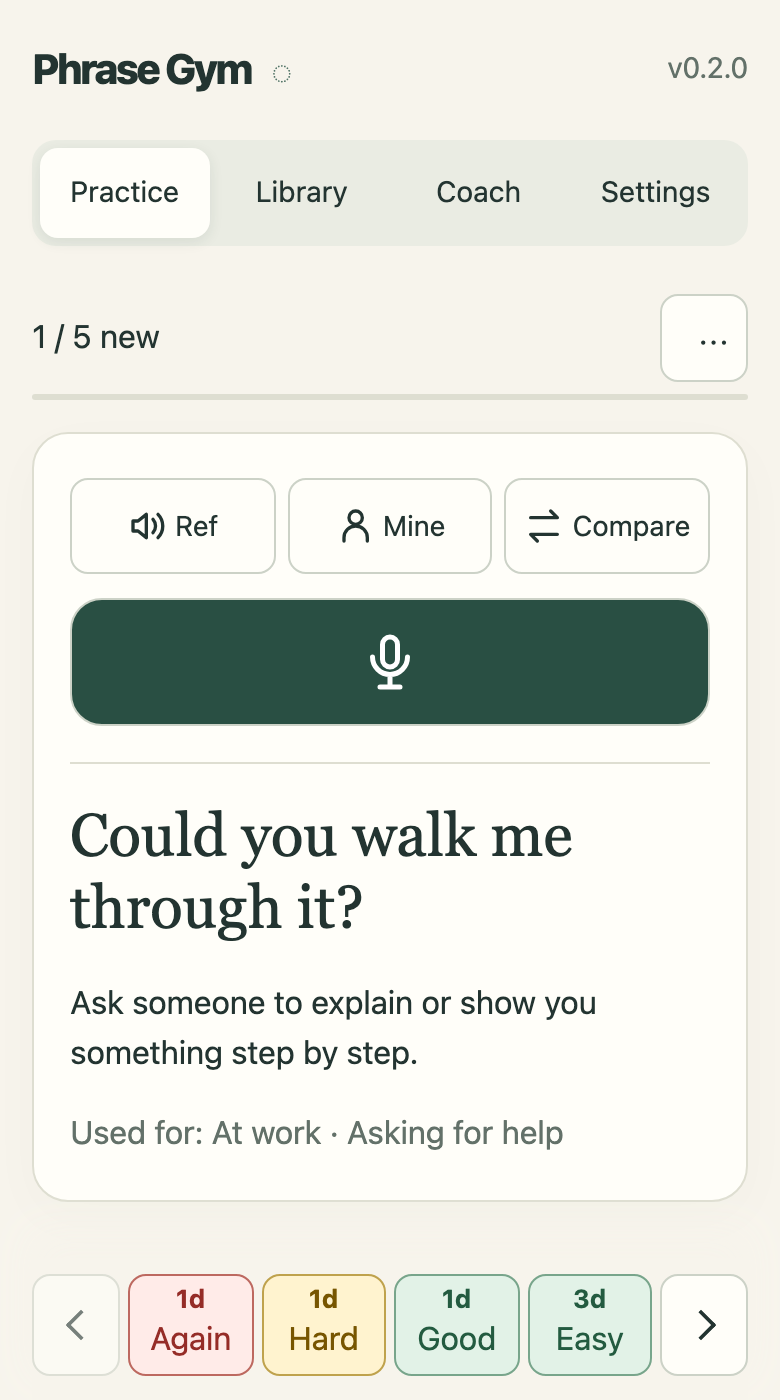
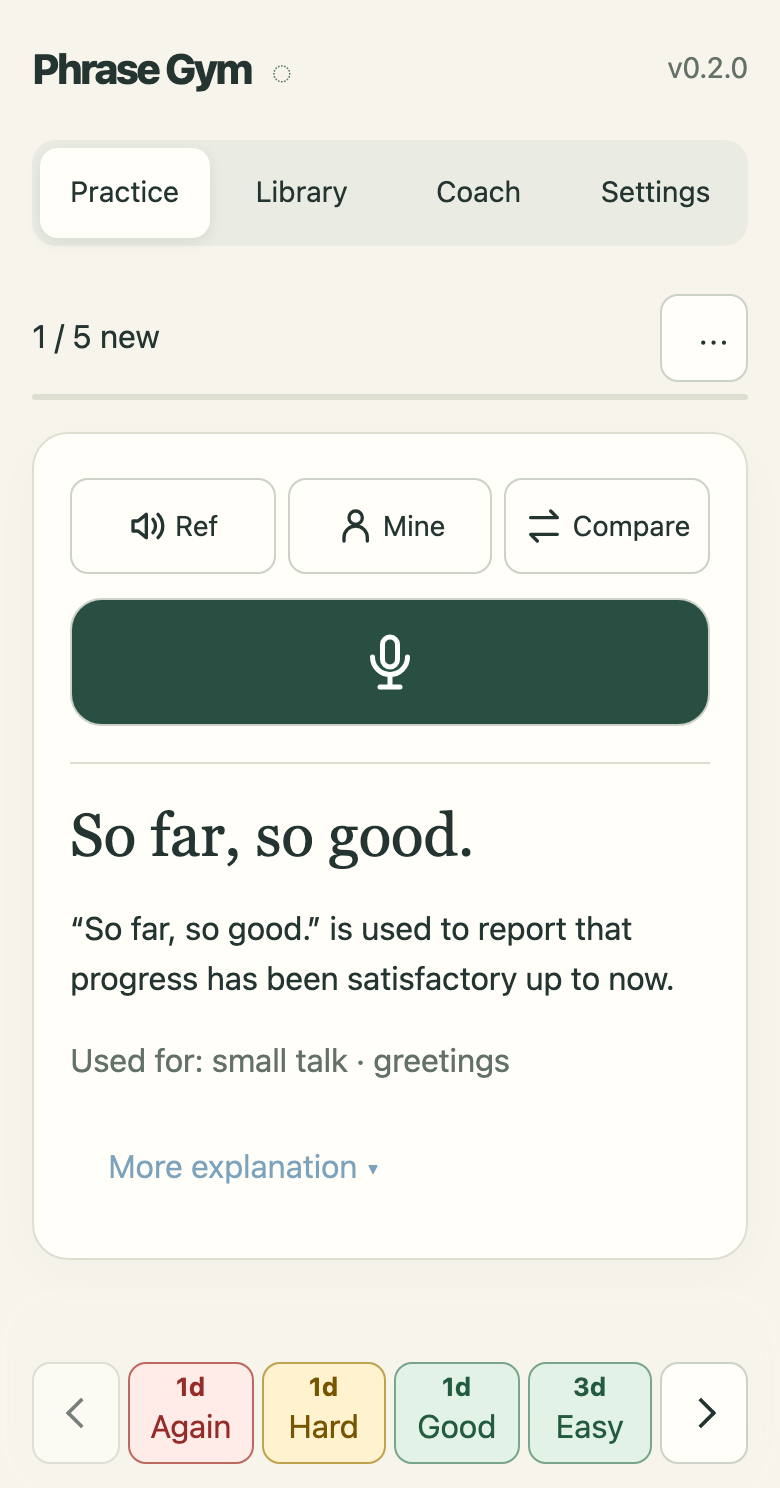
Show a real library card in the README

diff --git a/README.md b/README.md
@@ -10,8 +10,8 @@ from memory, then hear how it sounds alongside your own take.
 
 <table>
 <tr>
-<td align="center" valign="top"><b>Say it from a situation</b><br><img src="docs/images/practice-cue.png" width="300" alt="Mobile practice card with a situation cue, hidden answer, and microphone"></td>
-<td align="center" valign="top"><b>Reveal, compare, and rate</b><br><img src="docs/images/practice-compare.png" width="300" alt="Revealed phrase with reference and recording playback, comparison, and review intervals"></td>
+<td align="center" valign="top"><b>Say it from a situation</b><br><img src="docs/images/practice-cue.png" width="300" alt="Practice card with a fill-in-the-blank cue, parenthetical meaning, partner line, and hint"></td>
+<td align="center" valign="top"><b>Reveal, compare, and rate</b><br><img src="docs/images/practice-compare.png" width="300" alt="The same card revealed as So far, so good, with reference and recording playback and review intervals"></td>
 </tr>
 </table>
 
